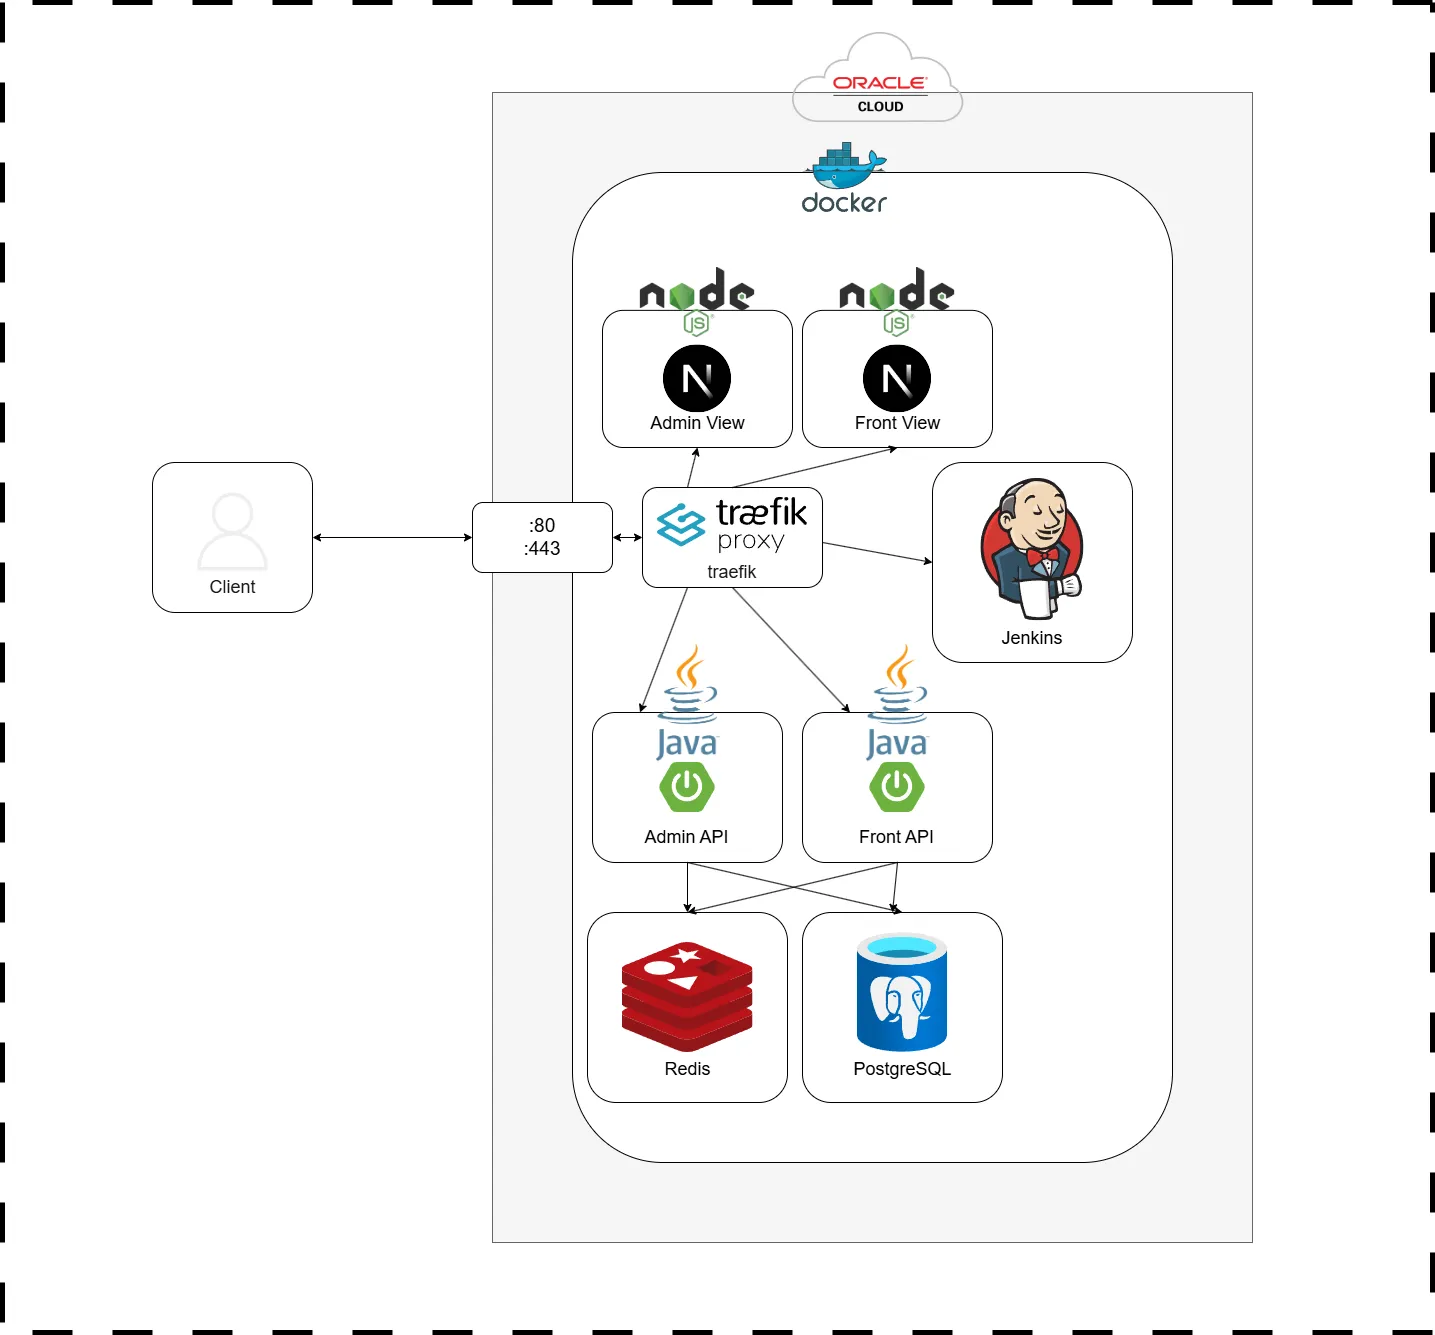
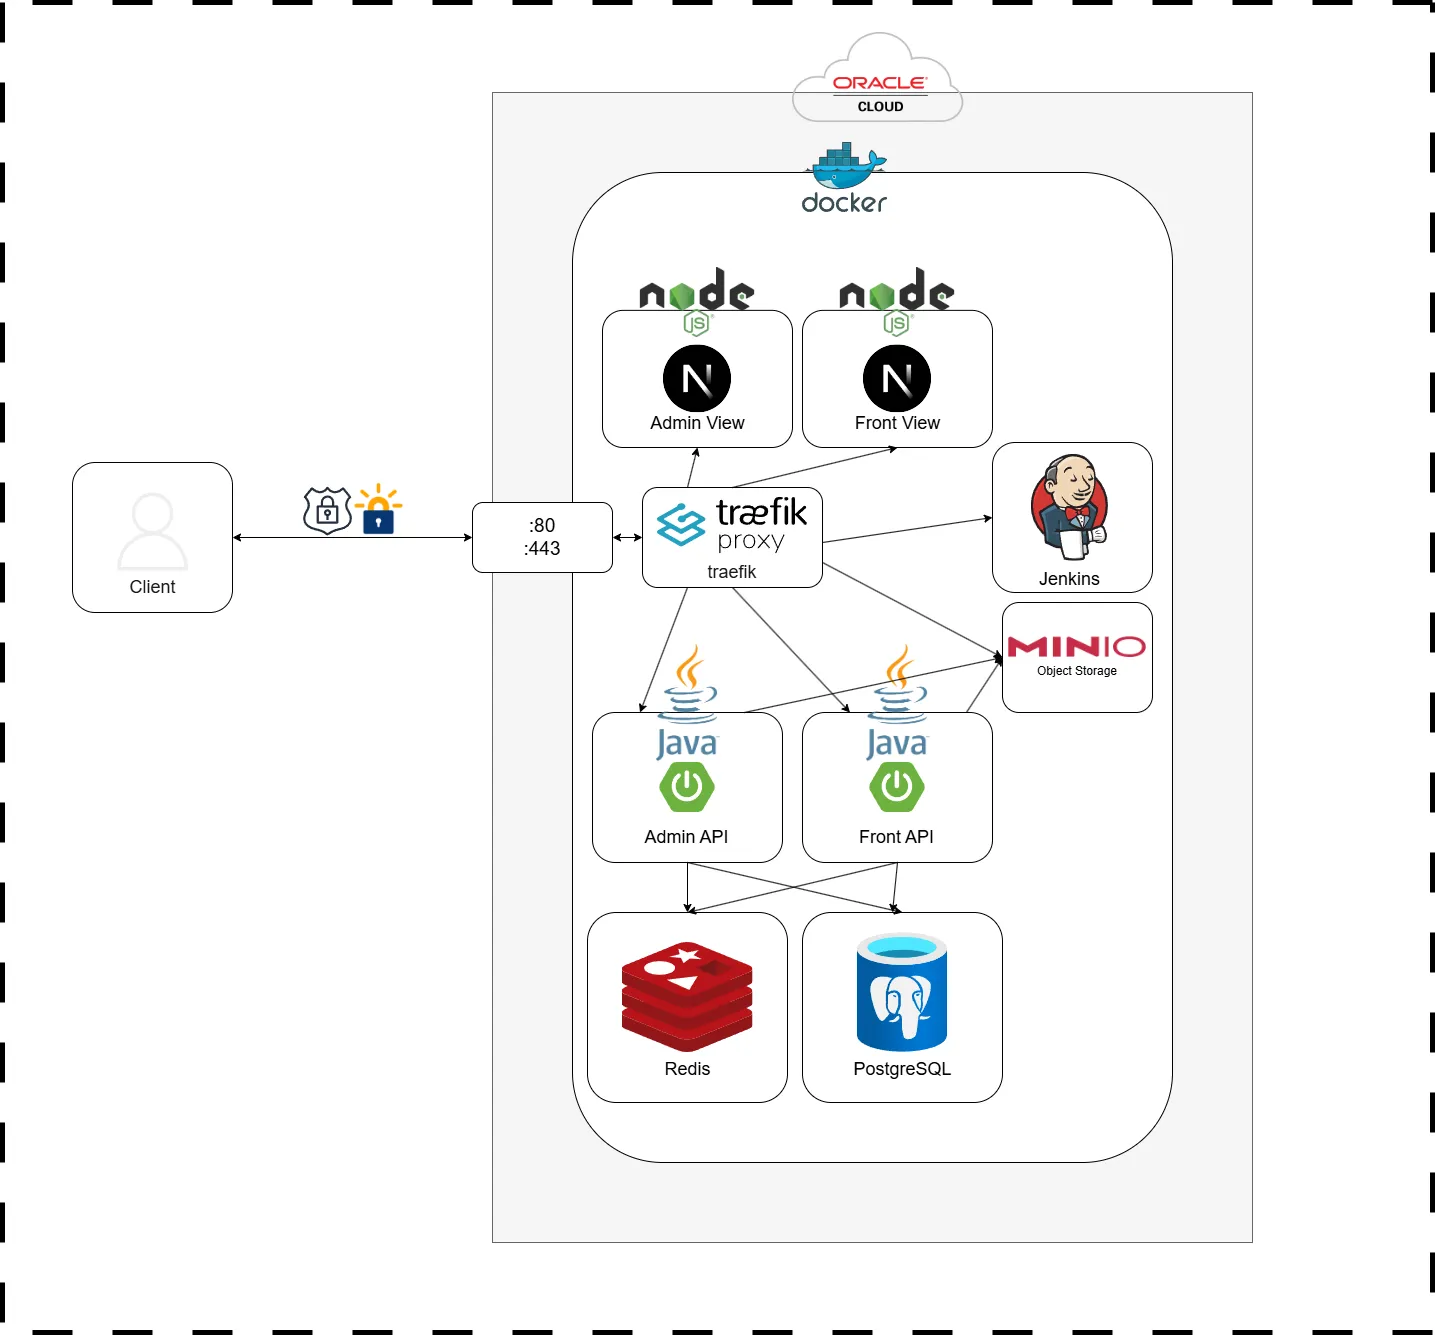
#20 site form validation, s3 upload logic

diff --git a/admin/src/app/(authenticated)/sites/[id]/edit/page.tsx b/admin/src/app/(authenticated)/sites/[id]/edit/page.tsx
@@ -8,12 +8,14 @@ import { Dialog } from "@/lib/dialog/dialog";
 import { ApiError } from "@/lib/types/common/api-error";
 import { SiteAddRequestDto, SiteDto } from "@/lib/types/site/site.dto";
 
+const queryKey = 'site';
+
 export default function SiteEditPage() {
   const { id }: { id: string } = useParams();
   const router = useRouter();
 
-  const { data } = useQuery<SiteDto>({
-    queryKey: ['site', id],
+  const { data, refetch } = useQuery<SiteDto>({
+    queryKey: [queryKey, id],
     queryFn: () => siteService.get(id)
   })
 
@@ -21,6 +23,7 @@ export default function SiteEditPage() {
     mutationFn: (data: SiteAddRequestDto) => siteService.edit(id, data),
     onSuccess: async () => {
       await Dialog.alert("저장되었습니다.");
+      refetch();
       router.push('/sites');
     },
     onError: (error: ApiError) => {

diff --git a/admin/src/app/(authenticated)/sites/site-form.tsx b/admin/src/app/(authenticated)/sites/site-form.tsx
@@ -66,12 +66,20 @@ export default function SiteForm({
   onCancel: () => void;
   mode: "add" | "edit"
 }) {
-  console.log('site: ', site)
-  const schema = mode === "add" ? siteAddFormSchema : siteEditFormSchema
+  const schema = mode === "add" ? siteAddFormSchema : siteEditFormSchema;
   const [drawerOpen, setDrawerOpen] = useState<boolean>(false)
   const form = useForm<z.infer<typeof schema>>({
     resolver: zodResolver(schema),
-    defaultValues: site,
+    defaultValues: {
+      name: "",
+      address: {
+        zipCode: "",
+        mainAddress: "",
+        detailAddress: "",
+      },
+      seatingMapFileId: "",
+      ...site,
+    },
   });
 
   const onAddressSearchComplete = (address: DaumAddress) => {

diff --git a/admin-api/src/main/kotlin/dev/dornol/ticket/admin/api/app/service/site/SiteService.kt b/admin-api/src/main/kotlin/dev/dornol/ticket/admin/api/app/service/site/SiteService.kt
@@ -53,7 +53,7 @@ class SiteService(
     @Transactional
     fun edit(userId: Long, id: Long, newSite: SiteAddRequestDto): Site {
         val manager = managerRepository.findByIdOrNull(userId) ?: throw BadRequestException()
-        val seatingMapFile = commonFileRepository.findByIdOrNull(newSite.seatingMapFileId)
+        val seatingMapFile = newSite.seatingMapFileId?.let { commonFileRepository.findByIdOrNull(it) }
         val site = siteRepository.findByIdOrNull(id)?.takeIf { it.company.id == manager.company.id }
             ?: throw BadRequestException()
 

diff --git a/admin-api/src/main/kotlin/dev/dornol/ticket/admin/api/security/controller/AuthController.kt b/admin-api/src/main/kotlin/dev/dornol/ticket/admin/api/security/controller/AuthController.kt
@@ -31,7 +31,7 @@ class AuthController(
     ) {
         val refreshTokenValue = refreshTokenRequest.refreshToken
             ?: refreshTokenInCookie
-            ?: throw BadCredentialsException("Refresh token is missing or invalid body: ${refreshTokenRequest.refreshToken}, cookie: ${refreshTokenInCookie}")
+            ?: throw BadCredentialsException("Refresh token is missing or invalid")
 
         val tokenBundle = refreshTokenService.popRefreshToken(refreshTokenValue)
             ?: throw BadCredentialsException("Refresh token not found")

diff --git a/admin-api/src/main/kotlin/dev/dornol/ticket/admin/api/config/properties/CloudS3Properties.kt b/admin-api/src/main/kotlin/dev/dornol/ticket/admin/api/config/properties/CloudS3Properties.kt
@@ -4,6 +4,7 @@ import org.springframework.boot.context.properties.ConfigurationProperties
 
 @ConfigurationProperties(prefix = "dornol.properties.cloud.s3")
 data class CloudS3Properties(
+    val baseUrl: String,
     val endpoint: String,
     val accessKey: String,
     val secretKey: String,

diff --git a/admin-api/src/main/kotlin/dev/dornol/ticket/admin/api/app/service/file/FileUploadService.kt b/admin-api/src/main/kotlin/dev/dornol/ticket/admin/api/app/service/file/FileUploadService.kt
@@ -29,7 +29,7 @@ class FileUploadService(
             RequestBody.fromInputStream(inputStream, inputStream.available().toLong())
         )
 
-        return "${s3Properties.endpoint}/$bucket/$key"
+        return "${s3Properties.baseUrl}/$bucket/$key"
     }
 
 }

diff --git a/admin-api/src/main/kotlin/dev/dornol/ticket/admin/api/app/dto/site/request/SiteAddRequestDto.kt b/admin-api/src/main/kotlin/dev/dornol/ticket/admin/api/app/dto/site/request/SiteAddRequestDto.kt
@@ -11,6 +11,5 @@ data class SiteAddRequestDto(
     @field:Valid
     @field:NotNull
     val address: AddressDto,
-    @field:NotNull
     val seatingMapFileId: Long?
 )
